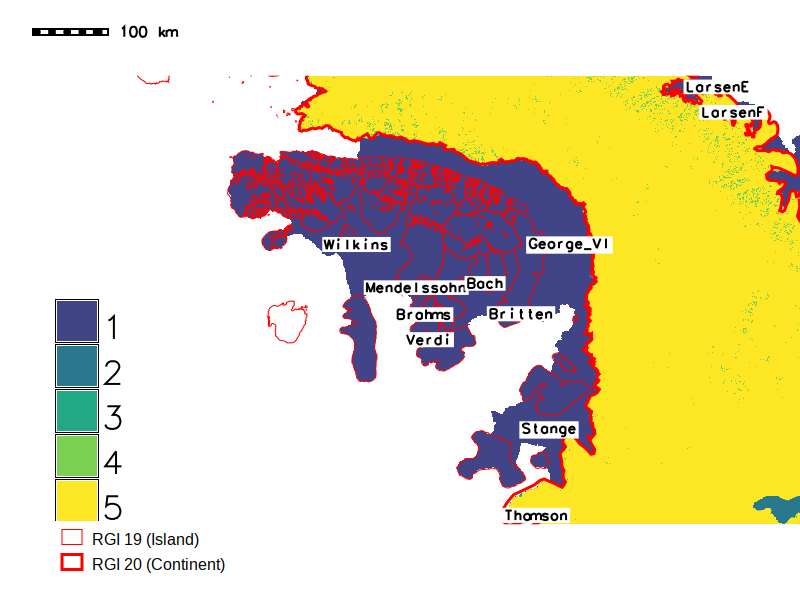
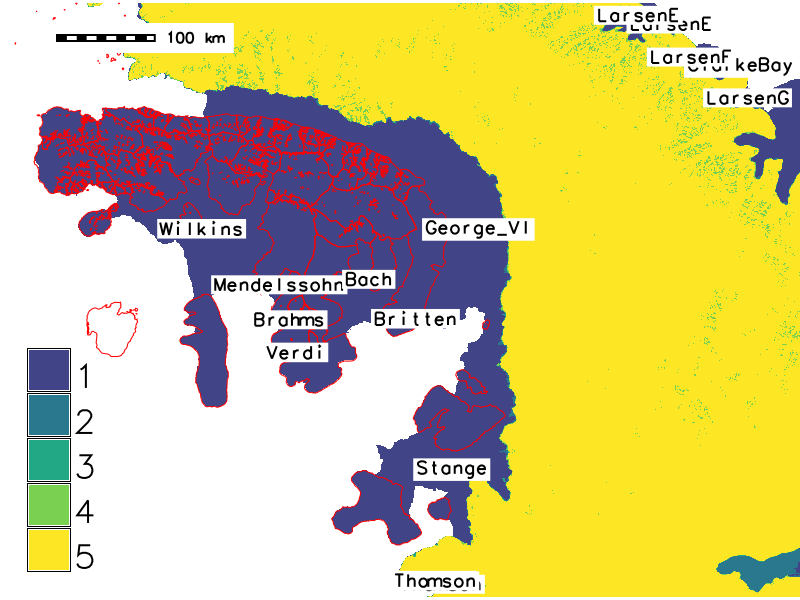
Remove RGI 20
Closes #50

diff --git a/D1/deliverable1.md b/D1/deliverable1.md
@@ -119,13 +119,13 @@ An alternative view, rather than overlap, is area of product X outside of produc
 
 The state of masks in Antarctica is less homogeneous than in Greenland. The BedMachine mask uses unpublished data (see https://github.com/IACS-cryo/Delineation-WG/issues/28), and many products then use the BedMachine mask. However HIRHAM uses a 1994 USGS mask, and MetUM uses a mask from AVHRR data from the early 1990s.
 
-A detailed examination of seven Antarctica products (BedMachine, ESA CCI, Rignot (IMBIE), @greene_2022, NSIDC 0709, and RGI regions 19 and 20) is shown below for two regions: Wilkins ice shelf and Abbott ice shelf.
+A detailed examination of six Antarctica products (BedMachine, ESA CCI, Rignot (IMBIE), @greene_2022, NSIDC 0709, and RGI region 19) is shown below for two regions: Wilkins ice shelf and Abbott ice shelf.
 
 ```{figure} fig/overlap_Wilkins.png
 :alt: Map of overlapping masks near Wilkins ice shelf, Antarctica
 :name: wilkins
 
-**Overlap map of seven masks (BedMachine, ESA CCI, Rignot (IMBIE), @greene_2022, NSIDC 0709, and RGI regions 19 and 20) near Wilkins ice shelf, Antarctica.** The five filled colors represent number of overlapping products when each is limited to the main (connected) ice sheet. The sixth and seventh products are RGI region 19 (peripheral Antarctica) and region 20 (main Antarctic ice sheet) shown as a thin and thick red outline, respectively. This graphic shows one product inludes the ice shelfves and coastal islands. See [gh#50](https://github.com/IACS-cryo/Delineation-WG/issues/50) for a discussion about RGI region 20.
+**Overlap map of six masks (BedMachine, ESA CCI, Rignot (IMBIE), @greene_2022, NSIDC 0709, and RGI region 19) near Wilkins ice shelf, Antarctica.** The five filled colors represent number of overlapping products when each is limited to the main (connected) ice sheet. The sixth product is RGI region 19 (peripheral Antarctica) shown as a thin red outline. This graphic shows one product inludes the ice shelfves and coastal islands.
 ```
 
 
@@ -142,7 +142,7 @@ The above figure provide a qualitative view of overlapping masks in two regions 
 :alt: Map of overlapping masks, Antarctica
 :name: union_AQ
 
-**Overlapping areas between masks on X axis and on Y axis in Antarctica.** Here instead of one RGI region (peripheral) there are three RGI regions.  'all' represents RGI 19 and 20, 'main' is RGI 20, and 'peropheral' is RGI 19. See [gh#50](https://github.com/IACS-cryo/Delineation-WG/issues/50) for a discussion about RGI region 20. Scale (both number and color) is logarithmic. The diagonal is the area of a product (100 % overlap with itself). Of interest, the dark (low values) in the column over 'peripheral@RGI' shows overlap between RGI peripheral region and all other products. This overlap is sometimes small (~10{math}`^3` or 1000 km{math}`^2`), but sometimes 10 or 100 times as large (e.g. 10{math}`^5` km{math}`^2`).
+**Overlapping areas between masks on X axis and on Y axis in Antarctica.** Scale (both number and color) is logarithmic. The diagonal is the area of a product (100 % overlap with itself). Of interest, the dark (low values) in the column over 'peripheral@RGI' shows overlap between RGI peripheral region and all other products. This overlap is sometimes small (~10{math}`^3` or 1000 km{math}`^2`), but sometimes 10 or 100 times as large (e.g. 10{math}`^5` km{math}`^2`).
 ```
 
 An alternative view, rather than overlap, is area of product X outside of product Y. Because overlap is commutative (X overlap Y is the same as Y overlap X) the above figure is half empty. However, X not in Y is different than Y not in X, so the following figure contains twice as much information and occupies twice the area (same information density).
@@ -151,7 +151,7 @@ An alternative view, rather than overlap, is area of product X outside of produc
 :alt: Map of not-in masks, Antarctica
 :name: notin_AQ
 
-**Non-overlapping areas between masks on X axis and on Y axis in Antarctica.**. Instead of one RGI region (peripheral) there are three RGI regions. 'all' represents RGI 19 and 20, 'main' is RGI 20, and 'perpheral' is RGI 19. See [gh#50](https://github.com/IACS-cryo/Delineation-WG/issues/50) for a discussion about RGI region 20.
+**Non-overlapping areas between masks on X axis and on Y axis in Antarctica.**
 ```
 
 <!--
